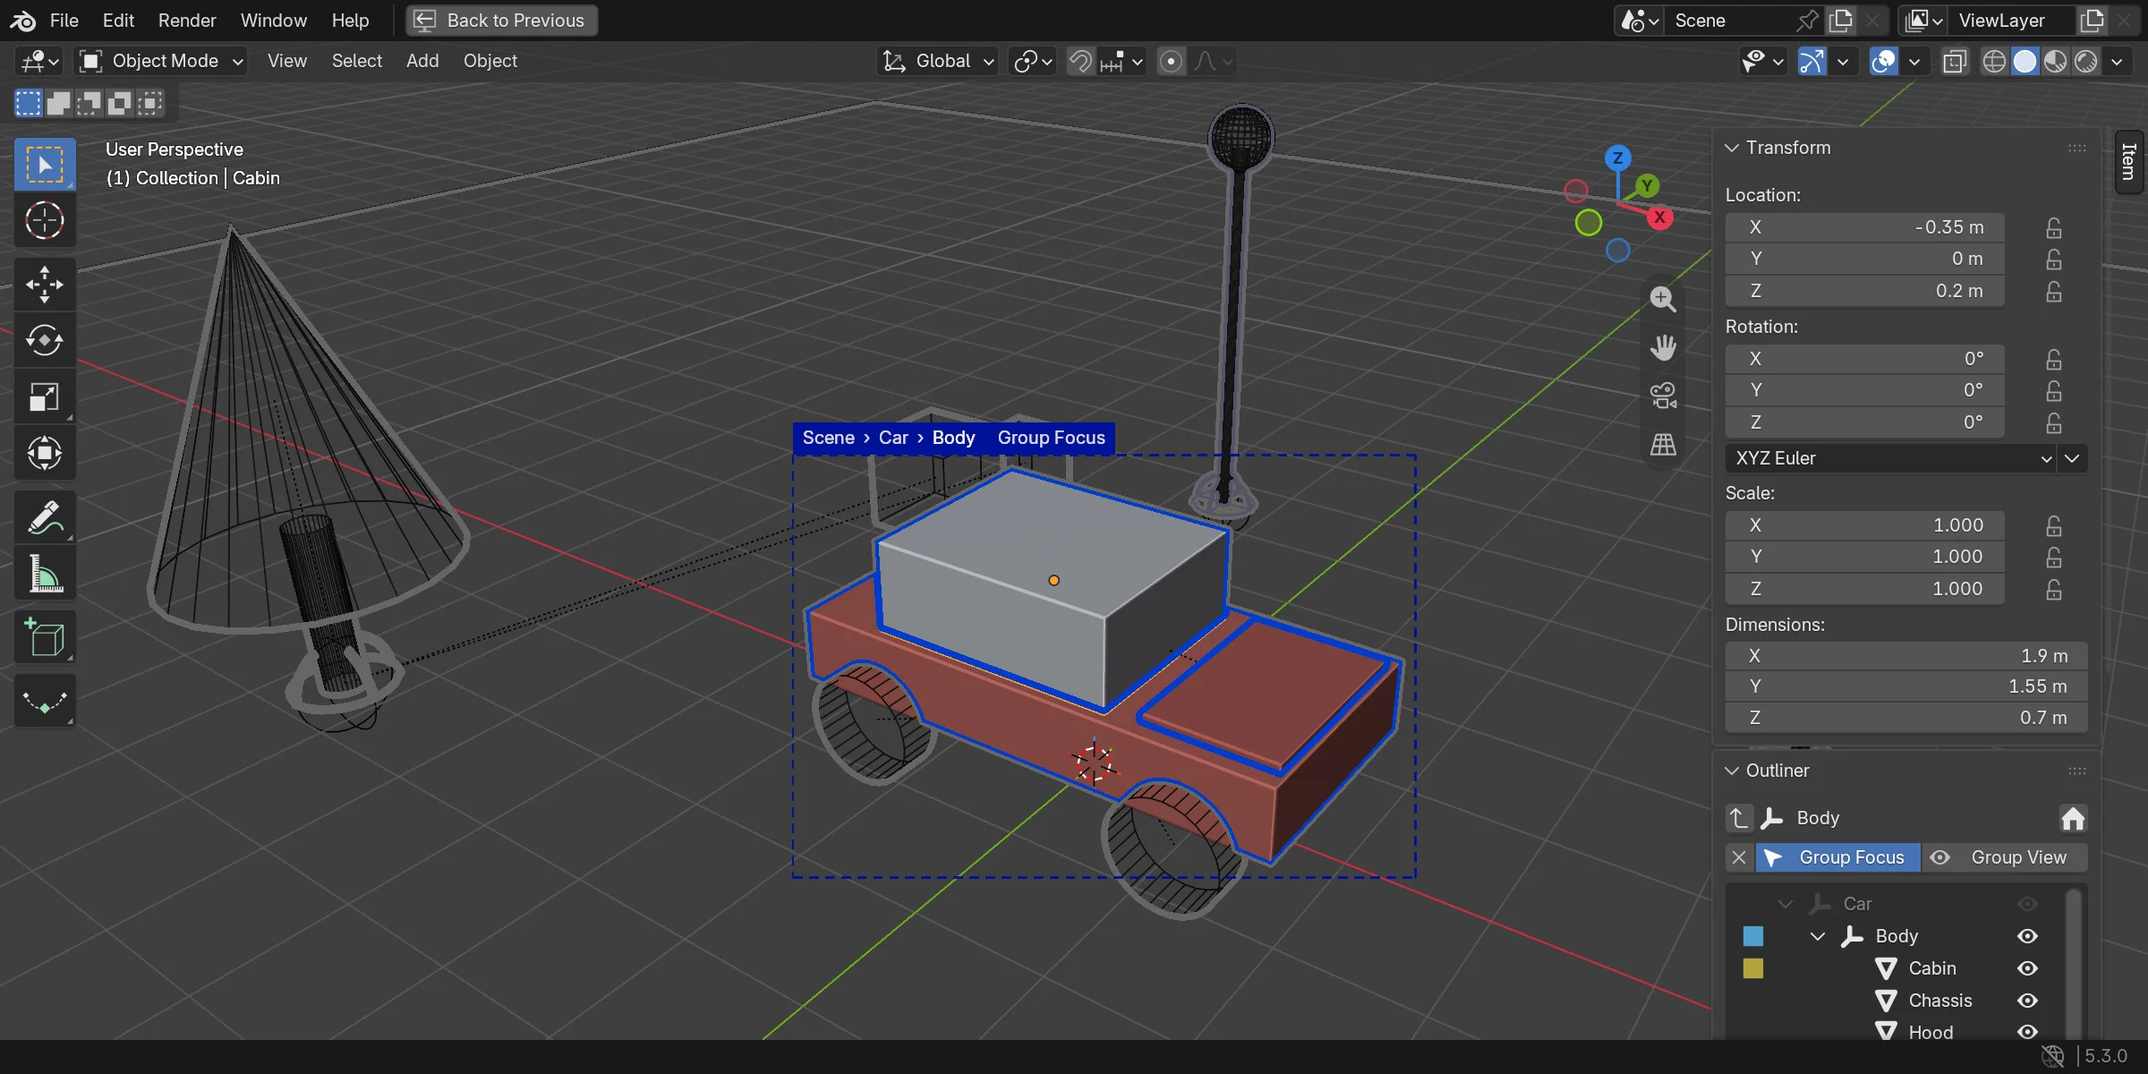
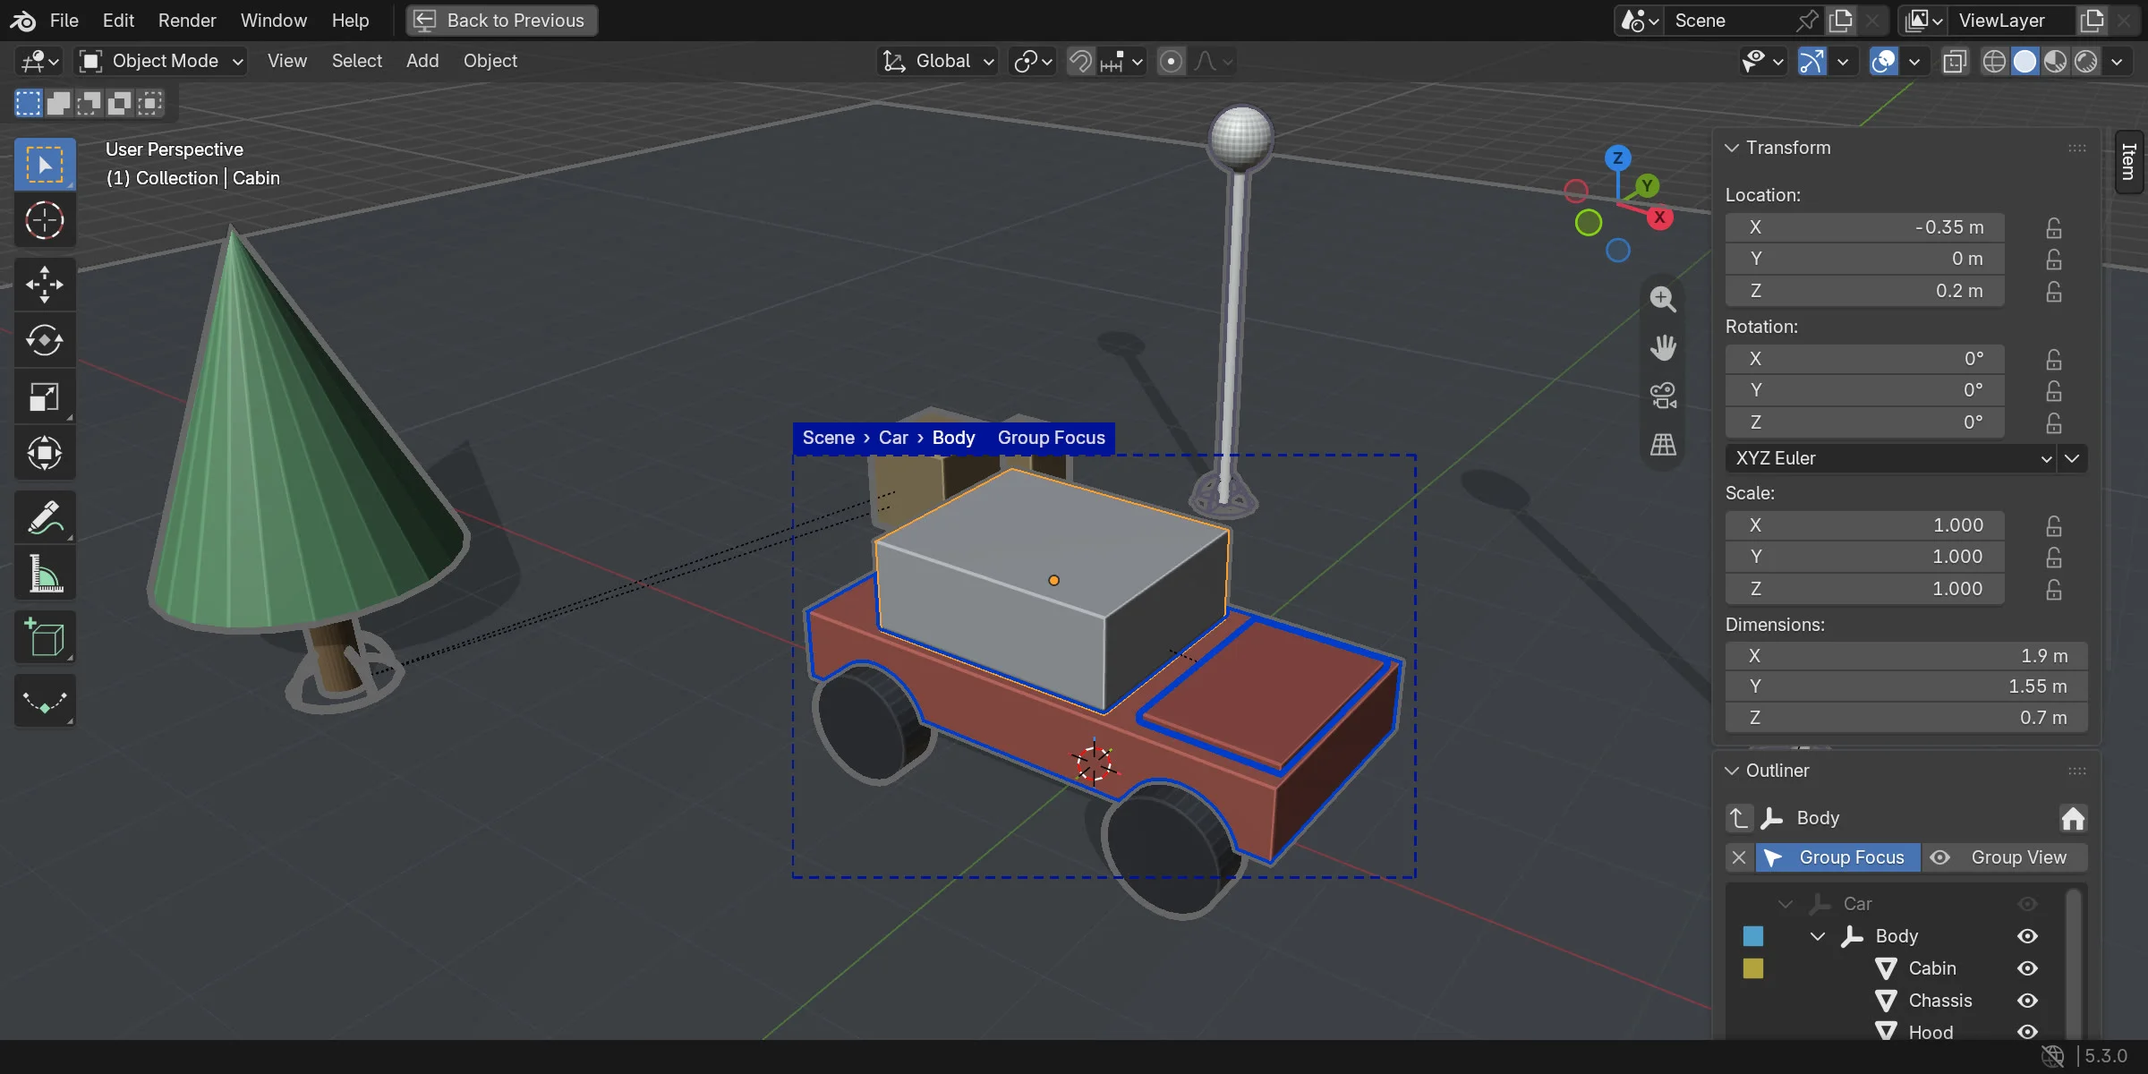
Hierarchical Group Outliner 1.27.8 : pages et captures

diff --git a/docs/hierarchy-outliner/superhive/product.html b/docs/hierarchy-outliner/superhive/product.html
@@ -7,9 +7,9 @@
 <p><strong>Hierarchy Outliner</strong> brings that workflow to Blender. You get an outliner that shows parents and children only, and groups you can enter and leave from the 3D view. What you work on is outlined by role, and components work like symbols. Every move has a shortcut, and nothing is written to your file that you did not ask for.</p>
 
 <h3>Picture this</h3>
-<p>You select the parts of a car's body and press <kbd>Ctrl</kbd>+<kbd>G</kbd>: they are now a group, under an Empty Sphere at their common parent. You double-click the group. The rest of the scene turns to grey wireframe and can no longer be clicked. A dashed frame shows the group's bounds, and the breadcrumb <em>Scene › Car › Body</em> shows where you are. You add a bolt with <kbd>Shift</kbd>+<kbd>A</kbd>, and it lands inside the group. <kbd>Backspace</kbd> takes you back up a level.</p>
+<p>You select the parts of a car's body and press <kbd>Ctrl</kbd>+<kbd>G</kbd>: they are now a group, under an Empty Sphere at their common parent. You double-click the group. The rest of the scene can no longer be clicked, and each object is outlined in the color of its role. A dashed frame shows the group's bounds, and the breadcrumb <em>Scene › Car › Body</em> shows where you are. You add a bolt with <kbd>Shift</kbd>+<kbd>A</kbd>, and it lands inside the group. <kbd>Backspace</kbd> takes you back up a level.</p>
 
-<p><img src="https://ludopant.com/hierarchy-outliner/img/screenshots/01-group-focus.webp" alt="Hierarchy Outliner in the 3D view: the group Body is entered, its contents are outlined in blue inside a dashed frame with the breadcrumb Scene › Car › Body · Group Focus; the rest of the scene is grey wireframe; the Outliner panel lists the tree" width="1200"></p>
+<p><img src="https://ludopant.com/hierarchy-outliner/img/screenshots/01-group-focus.webp" alt="Hierarchy Outliner in the 3D view: the group Body is entered, its contents are outlined in blue inside a dashed frame with the breadcrumb Scene › Car › Body · Group Focus; the Outliner panel lists the tree" width="1200"></p>
 
 <h2>What you get</h2>
 
@@ -43,7 +43,7 @@
 <p><img src="https://ludopant.com/hierarchy-outliner/img/pie.webp" alt="The V pie menu: Group Focus, Group View, Off, Role Outlines" width="1104"></p>
 <p>Choose what the rest of the scene does while you work in a group, from the <kbd>V</kbd> pie menu or the panel:</p>
 <ul>
-  <li><strong>Group Focus</strong>: only the group can be selected; everything else turns to grey wireframe (viewport only, the render is unchanged).</li>
+  <li><strong>Group Focus</strong>: only the group can be selected; everything else stays visible as it is but can no longer be clicked.</li>
   <li><strong>Group View</strong>: only the group is shown, in every 3D view. The outliner still lists the rest, greyed, so you can switch groups.</li>
   <li><strong>Off</strong>: entering a group is only for navigating; nothing is limited.</li>
 </ul>
@@ -64,7 +64,7 @@
   <li>The breadcrumb on its corner shows the path, for example <em>Scene › Car › Body · Group Focus</em>.</li>
   <li>Double-click a step to jump there. <em>Scene</em> takes you back to the root.</li>
 </ul>
-<p><img src="https://ludopant.com/hierarchy-outliner/img/screenshots/02-group-focus-car.webp" alt="Group Focus one level up: the group Car is entered, Body and Wheels are its children, grandchildren shown as wireframe, frame and breadcrumb Scene › Car · Group Focus" width="1200"></p>
+<p><img src="https://ludopant.com/hierarchy-outliner/img/screenshots/02-group-focus-car.webp" alt="Group Focus one level up: the group Car is entered, Body and Wheels are its children, grandchildren outlined in a lighter blue, frame and breadcrumb Scene › Car · Group Focus" width="1200"></p>
 
 <h3>Components</h3>
 <p><img src="https://ludopant.com/hierarchy-outliner/img/components.webp" alt="One component source feeding three synchronised instances" width="1104"></p>
@@ -87,5 +87,5 @@
 <p><img src="https://ludopant.com/hierarchy-outliner/img/screenshots/07-groups-menu.webp" alt="The Groups menu (Ctrl+W): Group, Ungroup, Add to Group, Leave Group, Enter, Go Up, Exit to Root, Make Instanceable, New Instance, Detach" width="1200"></p>
 
 <h2>Nothing written to your file</h2>
-<p>Focus modes, ghosts, frames and outlines only change what the viewport shows. Switch back to Off and everything is exactly as it was: an object you had hidden or locked yourself stays hidden or locked. Collections and view layers are never touched, so your files stay clean for everyone else on the team.</p>
+<p>Focus modes, frames and outlines only change what the viewport shows. Switch back to Off and everything is exactly as it was: an object you had hidden or locked yourself stays hidden or locked. Collections and view layers are never touched, so your files stay clean for everyone else on the team.</p>
 <p><img src="https://ludopant.com/hierarchy-outliner/img/screenshots/04-scene-root.webp" alt="The demo scene at the root: a car, a tree, crates and two street lamp instances, with the Outliner panel showing the full tree" width="1200"></p>

diff --git a/docs/hierarchy-outliner/index.html b/docs/hierarchy-outliner/index.html
@@ -59,9 +59,9 @@
 <p><strong>Hierarchy Outliner</strong> brings that workflow to Blender. You get an outliner that shows parents and children only, and groups you can enter and leave from the 3D view. What you work on is outlined by role, and components work like symbols. Every move has a shortcut, and nothing is written to your file that you did not ask for.</p>
 
 <h3>Picture this</h3>
-<p>You select the parts of a car's body and press <kbd>Ctrl</kbd>+<kbd>G</kbd>: they are now a group, under an Empty Sphere at their common parent. You double-click the group. The rest of the scene turns to grey wireframe and can no longer be clicked. A dashed frame shows the group's bounds, and the breadcrumb <em>Scene › Car › Body</em> shows where you are. You add a bolt with <kbd>Shift</kbd>+<kbd>A</kbd>, and it lands inside the group. <kbd>Backspace</kbd> takes you back up a level.</p>
+<p>You select the parts of a car's body and press <kbd>Ctrl</kbd>+<kbd>G</kbd>: they are now a group, under an Empty Sphere at their common parent. You double-click the group. The rest of the scene can no longer be clicked, and each object is outlined in the color of its role. A dashed frame shows the group's bounds, and the breadcrumb <em>Scene › Car › Body</em> shows where you are. You add a bolt with <kbd>Shift</kbd>+<kbd>A</kbd>, and it lands inside the group. <kbd>Backspace</kbd> takes you back up a level.</p>
 
-<p><img src="img/screenshots/01-group-focus.webp" alt="Hierarchy Outliner in the 3D view: the group Body is entered, its contents are outlined in blue inside a dashed frame with the breadcrumb Scene › Car › Body · Group Focus; the rest of the scene is grey wireframe; the Outliner panel lists the tree" width="1200"></p>
+<p><img src="img/screenshots/01-group-focus.webp" alt="Hierarchy Outliner in the 3D view: the group Body is entered, its contents are outlined in blue inside a dashed frame with the breadcrumb Scene › Car › Body · Group Focus; the Outliner panel lists the tree" width="1200"></p>
 
 <h2>What you get</h2>
 
@@ -95,7 +95,7 @@
 <p><picture><source srcset="img/dark/pie.svg" media="(prefers-color-scheme: dark)"><img src="img/pie.svg" alt="The V pie menu: Group Focus, Group View, Off, Role Outlines" width="1104"></picture></p>
 <p>Choose what the rest of the scene does while you work in a group, from the <kbd>V</kbd> pie menu or the panel:</p>
 <ul>
-  <li><strong>Group Focus</strong>: only the group can be selected; everything else turns to grey wireframe (viewport only, the render is unchanged).</li>
+  <li><strong>Group Focus</strong>: only the group can be selected; everything else stays visible as it is but can no longer be clicked.</li>
   <li><strong>Group View</strong>: only the group is shown, in every 3D view. The outliner still lists the rest, greyed, so you can switch groups.</li>
   <li><strong>Off</strong>: entering a group is only for navigating; nothing is limited.</li>
 </ul>
@@ -116,7 +116,7 @@
   <li>The breadcrumb on its corner shows the path, for example <em>Scene › Car › Body · Group Focus</em>.</li>
   <li>Double-click a step to jump there. <em>Scene</em> takes you back to the root.</li>
 </ul>
-<p><img src="img/screenshots/02-group-focus-car.webp" alt="Group Focus one level up: the group Car is entered, Body and Wheels are its children, grandchildren shown as wireframe, frame and breadcrumb Scene › Car · Group Focus" width="1200"></p>
+<p><img src="img/screenshots/02-group-focus-car.webp" alt="Group Focus one level up: the group Car is entered, Body and Wheels are its children, grandchildren outlined in a lighter blue, frame and breadcrumb Scene › Car · Group Focus" width="1200"></p>
 
 <h3>Components</h3>
 <p><picture><source srcset="img/dark/components.svg" media="(prefers-color-scheme: dark)"><img src="img/components.svg" alt="One component source feeding three synchronised instances" width="1104"></picture></p>
@@ -139,7 +139,7 @@
 <p><img src="img/screenshots/07-groups-menu.webp" alt="The Groups menu (Ctrl+W): Group, Ungroup, Add to Group, Leave Group, Enter, Go Up, Exit to Root, Make Instanceable, New Instance, Detach" width="1200"></p>
 
 <h2>Nothing written to your file</h2>
-<p>Focus modes, ghosts, frames and outlines only change what the viewport shows. Switch back to Off and everything is exactly as it was: an object you had hidden or locked yourself stays hidden or locked. Collections and view layers are never touched, so your files stay clean for everyone else on the team.</p>
+<p>Focus modes, frames and outlines only change what the viewport shows. Switch back to Off and everything is exactly as it was: an object you had hidden or locked yourself stays hidden or locked. Collections and view layers are never touched, so your files stay clean for everyone else on the team.</p>
 <p><img src="img/screenshots/04-scene-root.webp" alt="The demo scene at the root: a car, a tree, crates and two street lamp instances, with the Outliner panel showing the full tree" width="1200"></p>
 
 </div>

diff --git a/docs/hierarchy-outliner/documentation.html b/docs/hierarchy-outliner/documentation.html
@@ -52,7 +52,7 @@
 <ul class="tabs"><li><a href="index.html">Overview</a></li><li><a href="documentation.html" aria-current="page">Documentation</a></li><li><a href="faq.html">FAQ</a></li></ul>
 <h2>Installation</h2>
 <ol>
-  <li>Download <code>hierarchy_outliner-1.27.7.zip</code> from your Superhive account. Do not unzip it.</li>
+  <li>Download <code>hierarchy_outliner-1.27.8.zip</code> from your Superhive account. Do not unzip it.</li>
   <li>In Blender 4.2 or later, drag the zip file into the Blender window and confirm. Or go to <em>Edit › Preferences › Get Extensions</em>, open the menu at the top right, choose <em>Install from Disk…</em> and select the zip.</li>
   <li>Make sure <strong>Hierarchy Outliner</strong> is enabled in the list of extensions.</li>
   <li>In the 3D view, press <kbd>N</kbd> to open the sidebar and click the <strong>Outliner</strong> tab.</li>
@@ -112,7 +112,6 @@
     <tr><td>Inside a group, target</td><td>Children (direct children only) · All Children (any descendant)</td><td>Children</td></tr>
     <tr><td>On Enter</td><td>Group Focus (switch from Off to Group Focus) · Keep Mode</td><td>Group Focus</td></tr>
     <tr><td>Select All on Enter</td><td>On · Off</td><td>Off</td></tr>
-    <tr><td>Group Focus: the rest as grey wireframe</td><td>On · Off</td><td>On</td></tr>
     <tr><td>New objects join the current group</td><td>On · Off</td><td>On</td></tr>
     <tr><td>Role Outlines</td><td>On · Off, six colours</td><td>On</td></tr>
     <tr><td>Group Frame</td><td>On · Off</td><td>On</td></tr>
@@ -131,7 +130,7 @@
     <tr><td><kbd>Ctrl</kbd>+<kbd>G</kbd></td><td>Group</td></tr>
     <tr><td><kbd>Ctrl</kbd>+<kbd>Alt</kbd>+<kbd>G</kbd></td><td>Ungroup</td></tr>
     <tr><td><kbd>Ctrl</kbd>+<kbd>T</kbd> / <kbd>Alt</kbd>+<kbd>T</kbd></td><td>Collections: Create New Collection / Remove from Collection (G layout)</td></tr>
-    <tr><td><kbd>Ctrl</kbd>+<kbd>W</kbd></td><td>Groups menu</td></tr>
+    <tr><td><kbd>Ctrl</kbd>+<kbd>W</kbd></td><td>Groups menu (also Object › Groups, and on top of the right-click menu)</td></tr>
     <tr><td><kbd>Enter</kbd></td><td>Enter the group of the active object, one level per press</td></tr>
     <tr><td><kbd>Backspace</kbd></td><td>Go up one level</td></tr>
     <tr><td>Double-click an object</td><td>Enter its group, one level per double-click</td></tr>
@@ -145,6 +144,7 @@
 
 <h2>Changelog</h2>
 <ul>
+  <li><strong>1.27.8</strong>: the Groups menu (<kbd>Ctrl</kbd>+<kbd>W</kbd>) is also on top of the right-click menu of the 3D view. The Group Focus wireframe option is gone. The role outlines show what you can select, and the add-on no longer changes how your objects are displayed; objects left in wireframe by an earlier version get their display back.</li>
   <li><strong>1.27.7</strong>: a selected object keeps only Blender's selection outline; the role outline no longer covers it.</li>
   <li><strong>1.27.6</strong>: the add-on is named Hierarchical Group Outliner in Blender.</li>
   <li><strong>1.27.5</strong>: double-clicking an instance no longer picks the object behind it.</li>

diff --git a/docs/hierarchy-outliner/superhive/documentation.html b/docs/hierarchy-outliner/superhive/documentation.html
@@ -1,6 +1,6 @@
 <h2>Installation</h2>
 <ol>
-  <li>Download <code>hierarchy_outliner-1.27.7.zip</code> from your Superhive account. Do not unzip it.</li>
+  <li>Download <code>hierarchy_outliner-1.27.8.zip</code> from your Superhive account. Do not unzip it.</li>
   <li>In Blender 4.2 or later, drag the zip file into the Blender window and confirm. Or go to <em>Edit › Preferences › Get Extensions</em>, open the menu at the top right, choose <em>Install from Disk…</em> and select the zip.</li>
   <li>Make sure <strong>Hierarchy Outliner</strong> is enabled in the list of extensions.</li>
   <li>In the 3D view, press <kbd>N</kbd> to open the sidebar and click the <strong>Outliner</strong> tab.</li>
@@ -60,7 +60,6 @@
     <tr><td>Inside a group, target</td><td>Children (direct children only) · All Children (any descendant)</td><td>Children</td></tr>
     <tr><td>On Enter</td><td>Group Focus (switch from Off to Group Focus) · Keep Mode</td><td>Group Focus</td></tr>
     <tr><td>Select All on Enter</td><td>On · Off</td><td>Off</td></tr>
-    <tr><td>Group Focus: the rest as grey wireframe</td><td>On · Off</td><td>On</td></tr>
     <tr><td>New objects join the current group</td><td>On · Off</td><td>On</td></tr>
     <tr><td>Role Outlines</td><td>On · Off, six colours</td><td>On</td></tr>
     <tr><td>Group Frame</td><td>On · Off</td><td>On</td></tr>
@@ -79,7 +78,7 @@
     <tr><td><kbd>Ctrl</kbd>+<kbd>G</kbd></td><td>Group</td></tr>
     <tr><td><kbd>Ctrl</kbd>+<kbd>Alt</kbd>+<kbd>G</kbd></td><td>Ungroup</td></tr>
     <tr><td><kbd>Ctrl</kbd>+<kbd>T</kbd> / <kbd>Alt</kbd>+<kbd>T</kbd></td><td>Collections: Create New Collection / Remove from Collection (G layout)</td></tr>
-    <tr><td><kbd>Ctrl</kbd>+<kbd>W</kbd></td><td>Groups menu</td></tr>
+    <tr><td><kbd>Ctrl</kbd>+<kbd>W</kbd></td><td>Groups menu (also Object › Groups, and on top of the right-click menu)</td></tr>
     <tr><td><kbd>Enter</kbd></td><td>Enter the group of the active object, one level per press</td></tr>
     <tr><td><kbd>Backspace</kbd></td><td>Go up one level</td></tr>
     <tr><td>Double-click an object</td><td>Enter its group, one level per double-click</td></tr>
@@ -93,6 +92,7 @@
 
 <h2>Changelog</h2>
 <ul>
+  <li><strong>1.27.8</strong>: the Groups menu (<kbd>Ctrl</kbd>+<kbd>W</kbd>) is also on top of the right-click menu of the 3D view. The Group Focus wireframe option is gone. The role outlines show what you can select, and the add-on no longer changes how your objects are displayed; objects left in wireframe by an earlier version get their display back.</li>
   <li><strong>1.27.7</strong>: a selected object keeps only Blender's selection outline; the role outline no longer covers it.</li>
   <li><strong>1.27.6</strong>: the add-on is named Hierarchical Group Outliner in Blender.</li>
   <li><strong>1.27.5</strong>: double-clicking an instance no longer picks the object behind it.</li>

diff --git a/docs/hierarchy-outliner/faq.html b/docs/hierarchy-outliner/faq.html
@@ -64,7 +64,7 @@
 <p>Alpha and beta builds of Blender are not supported.</p>
 
 <h3>Does it change my scene or my collections?</h3>
-<p>No. Groups are ordinary Empties with ordinary parenting, so your files open fine without the add-on. Focus modes, ghosts, outlines and frames are display only, and collections and view layers are never touched. The only things the add-on creates are what you ask for: the Empties of your groups and the Components layer.</p>
+<p>No. Groups are ordinary Empties with ordinary parenting, so your files open fine without the add-on. Focus modes, outlines and frames are display only, and collections and view layers are never touched. The only things the add-on creates are what you ask for: the Empties of your groups and the Components layer.</p>
 
 <h3>Does it work with scenes I already have?</h3>
 <p>Yes. Any parent with children is a group as far as the add-on is concerned, whatever its type.</p>
@@ -73,7 +73,7 @@
 <p>With the default G layout, <em>Create New Collection</em> moves to <kbd>Ctrl</kbd>+<kbd>T</kbd> and <em>Remove from Collection</em> to <kbd>Alt</kbd>+<kbd>T</kbd>. If you would rather keep Blender's keys, pick the T layout or None in the preferences. <kbd>Alt</kbd>+<kbd>G</kbd> always keeps <em>Clear Location</em>.</p>
 
 <h3>Does Group Focus or Group View affect renders?</h3>
-<p>No. The grey wireframe, hidden objects and outlines only affect the viewport. Selection limits are lifted as soon as you switch back to Off or leave the group.</p>
+<p>No. Hidden objects and outlines only affect the viewport. Selection limits are lifted as soon as you switch back to Off or leave the group.</p>
 
 <h3>Can I turn a feature off?</h3>
 <p>Yes. Every feature and every shortcut can be switched off on its own in Feature Toggles or the add-on preferences.</p>

diff --git a/docs/hierarchy-outliner/superhive/faq.html b/docs/hierarchy-outliner/superhive/faq.html
@@ -12,7 +12,7 @@
 <p>Alpha and beta builds of Blender are not supported.</p>
 
 <h3>Does it change my scene or my collections?</h3>
-<p>No. Groups are ordinary Empties with ordinary parenting, so your files open fine without the add-on. Focus modes, ghosts, outlines and frames are display only, and collections and view layers are never touched. The only things the add-on creates are what you ask for: the Empties of your groups and the Components layer.</p>
+<p>No. Groups are ordinary Empties with ordinary parenting, so your files open fine without the add-on. Focus modes, outlines and frames are display only, and collections and view layers are never touched. The only things the add-on creates are what you ask for: the Empties of your groups and the Components layer.</p>
 
 <h3>Does it work with scenes I already have?</h3>
 <p>Yes. Any parent with children is a group as far as the add-on is concerned, whatever its type.</p>
@@ -21,7 +21,7 @@
 <p>With the default G layout, <em>Create New Collection</em> moves to <kbd>Ctrl</kbd>+<kbd>T</kbd> and <em>Remove from Collection</em> to <kbd>Alt</kbd>+<kbd>T</kbd>. If you would rather keep Blender's keys, pick the T layout or None in the preferences. <kbd>Alt</kbd>+<kbd>G</kbd> always keeps <em>Clear Location</em>.</p>
 
 <h3>Does Group Focus or Group View affect renders?</h3>
-<p>No. The grey wireframe, hidden objects and outlines only affect the viewport. Selection limits are lifted as soon as you switch back to Off or leave the group.</p>
+<p>No. Hidden objects and outlines only affect the viewport. Selection limits are lifted as soon as you switch back to Off or leave the group.</p>
 
 <h3>Can I turn a feature off?</h3>
 <p>Yes. Every feature and every shortcut can be switched off on its own in Feature Toggles or the add-on preferences.</p>
